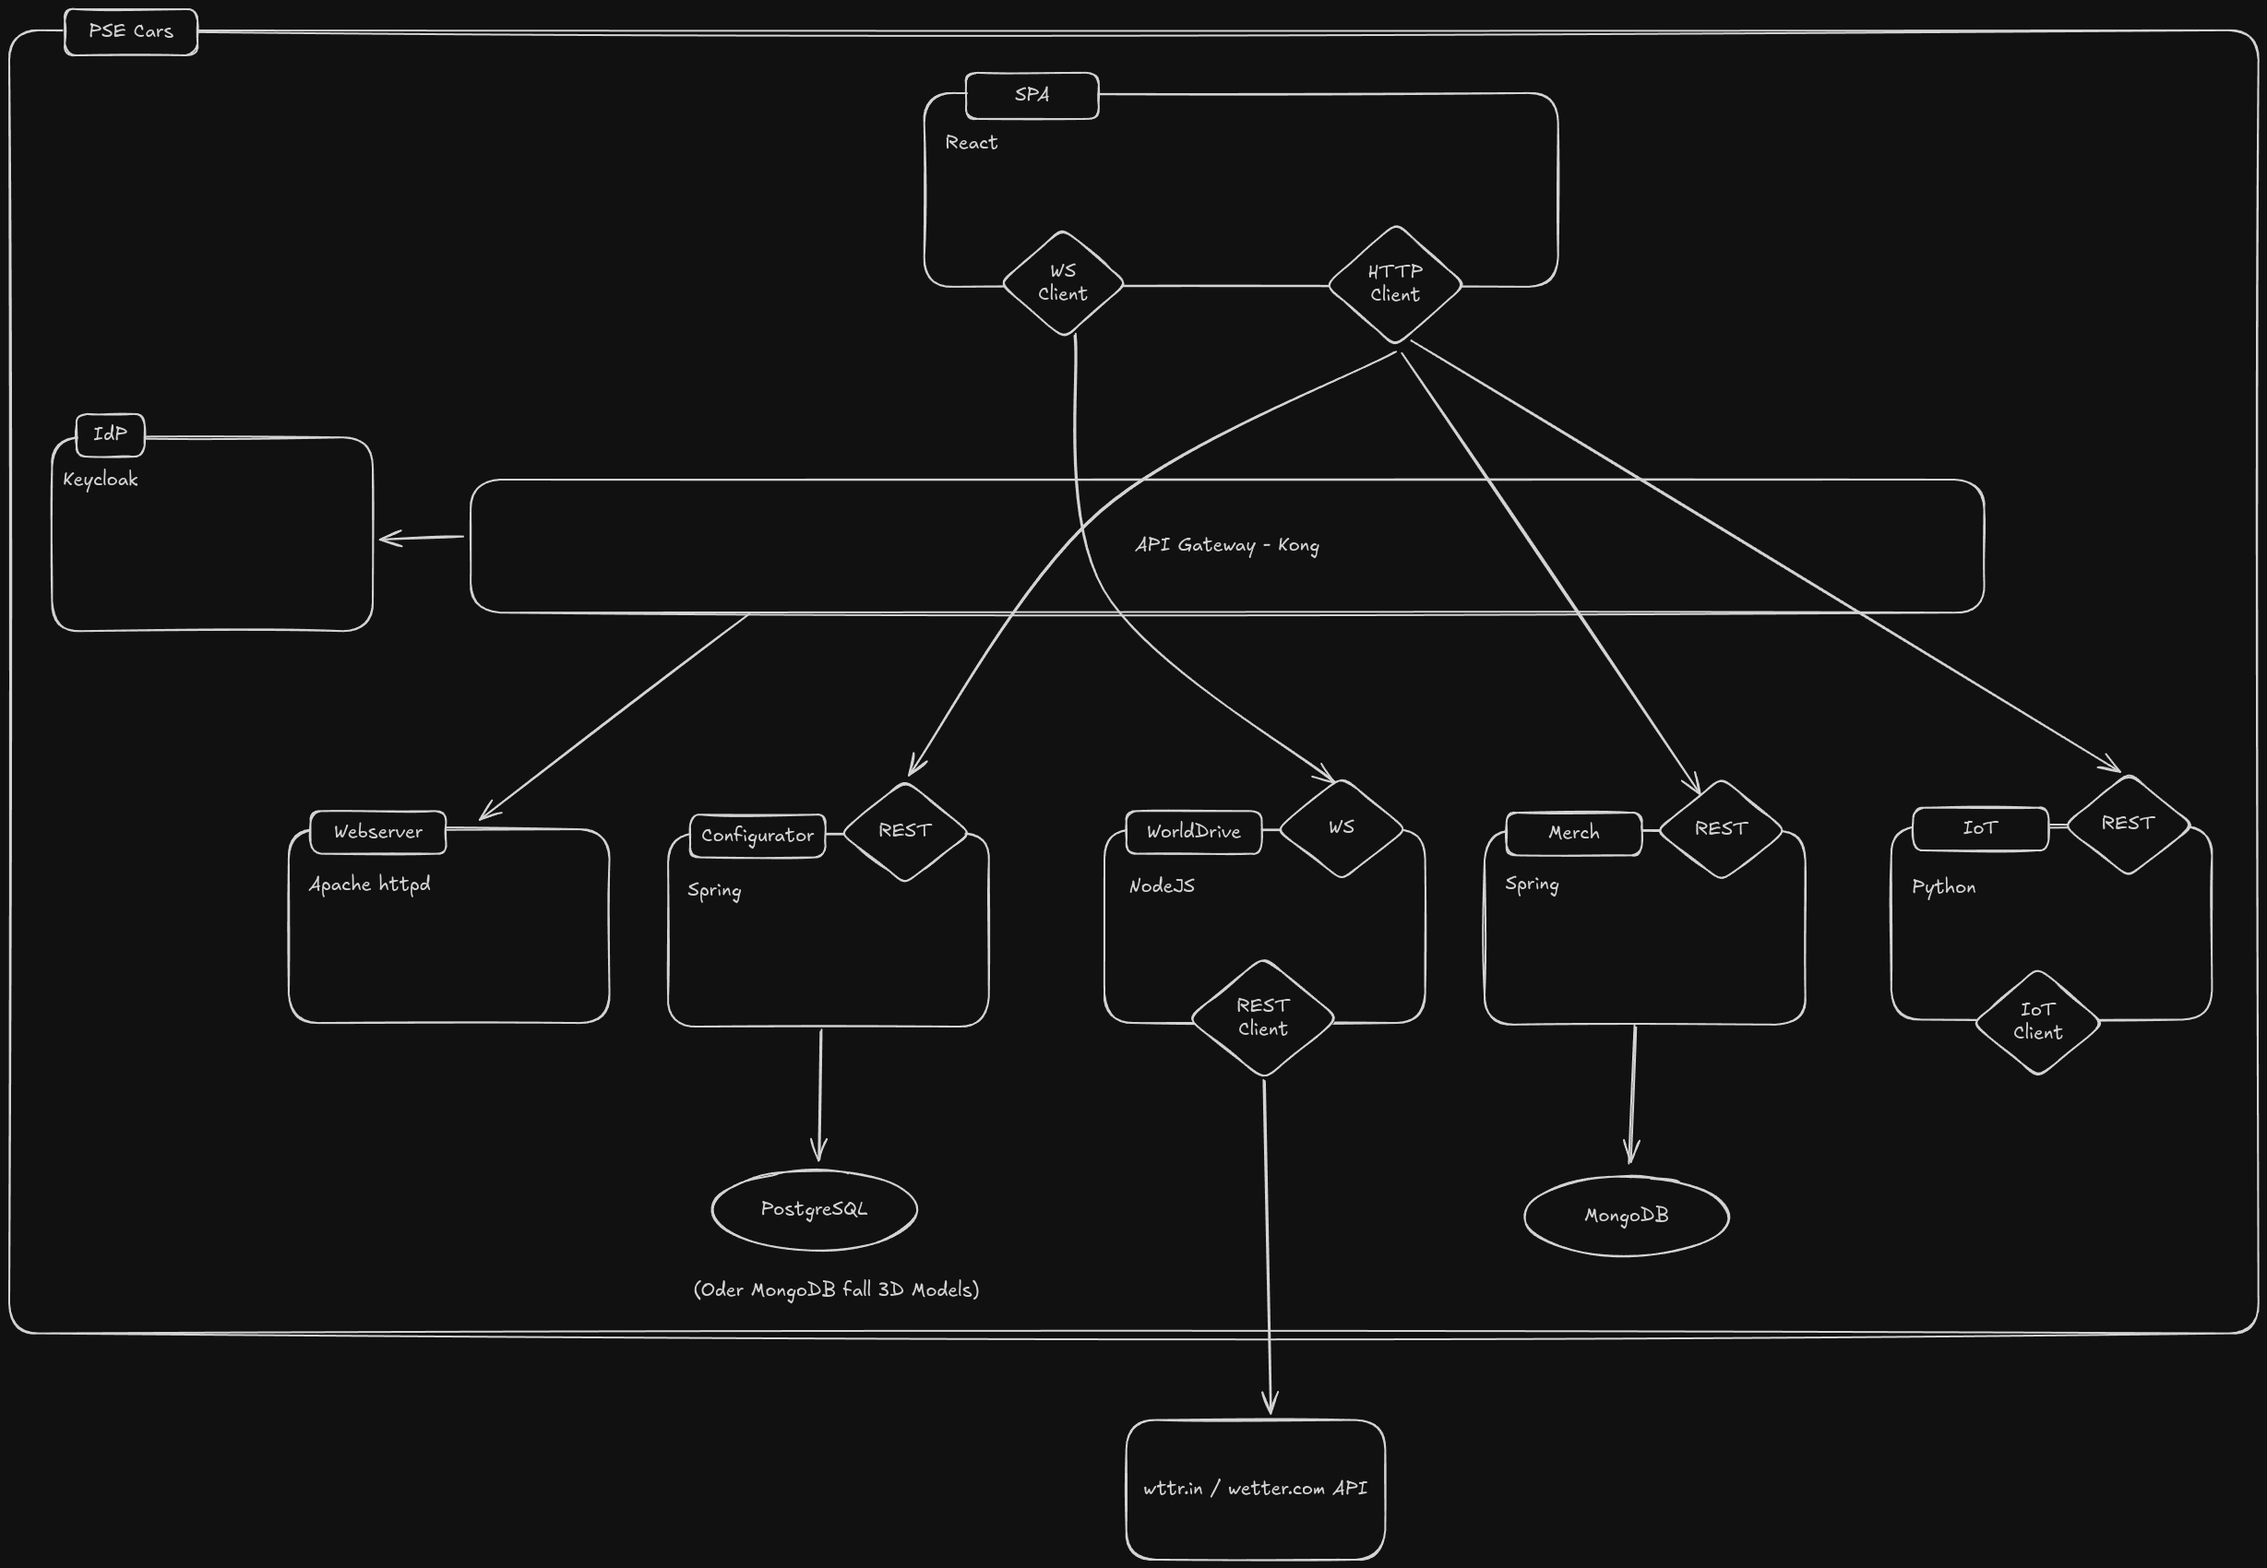
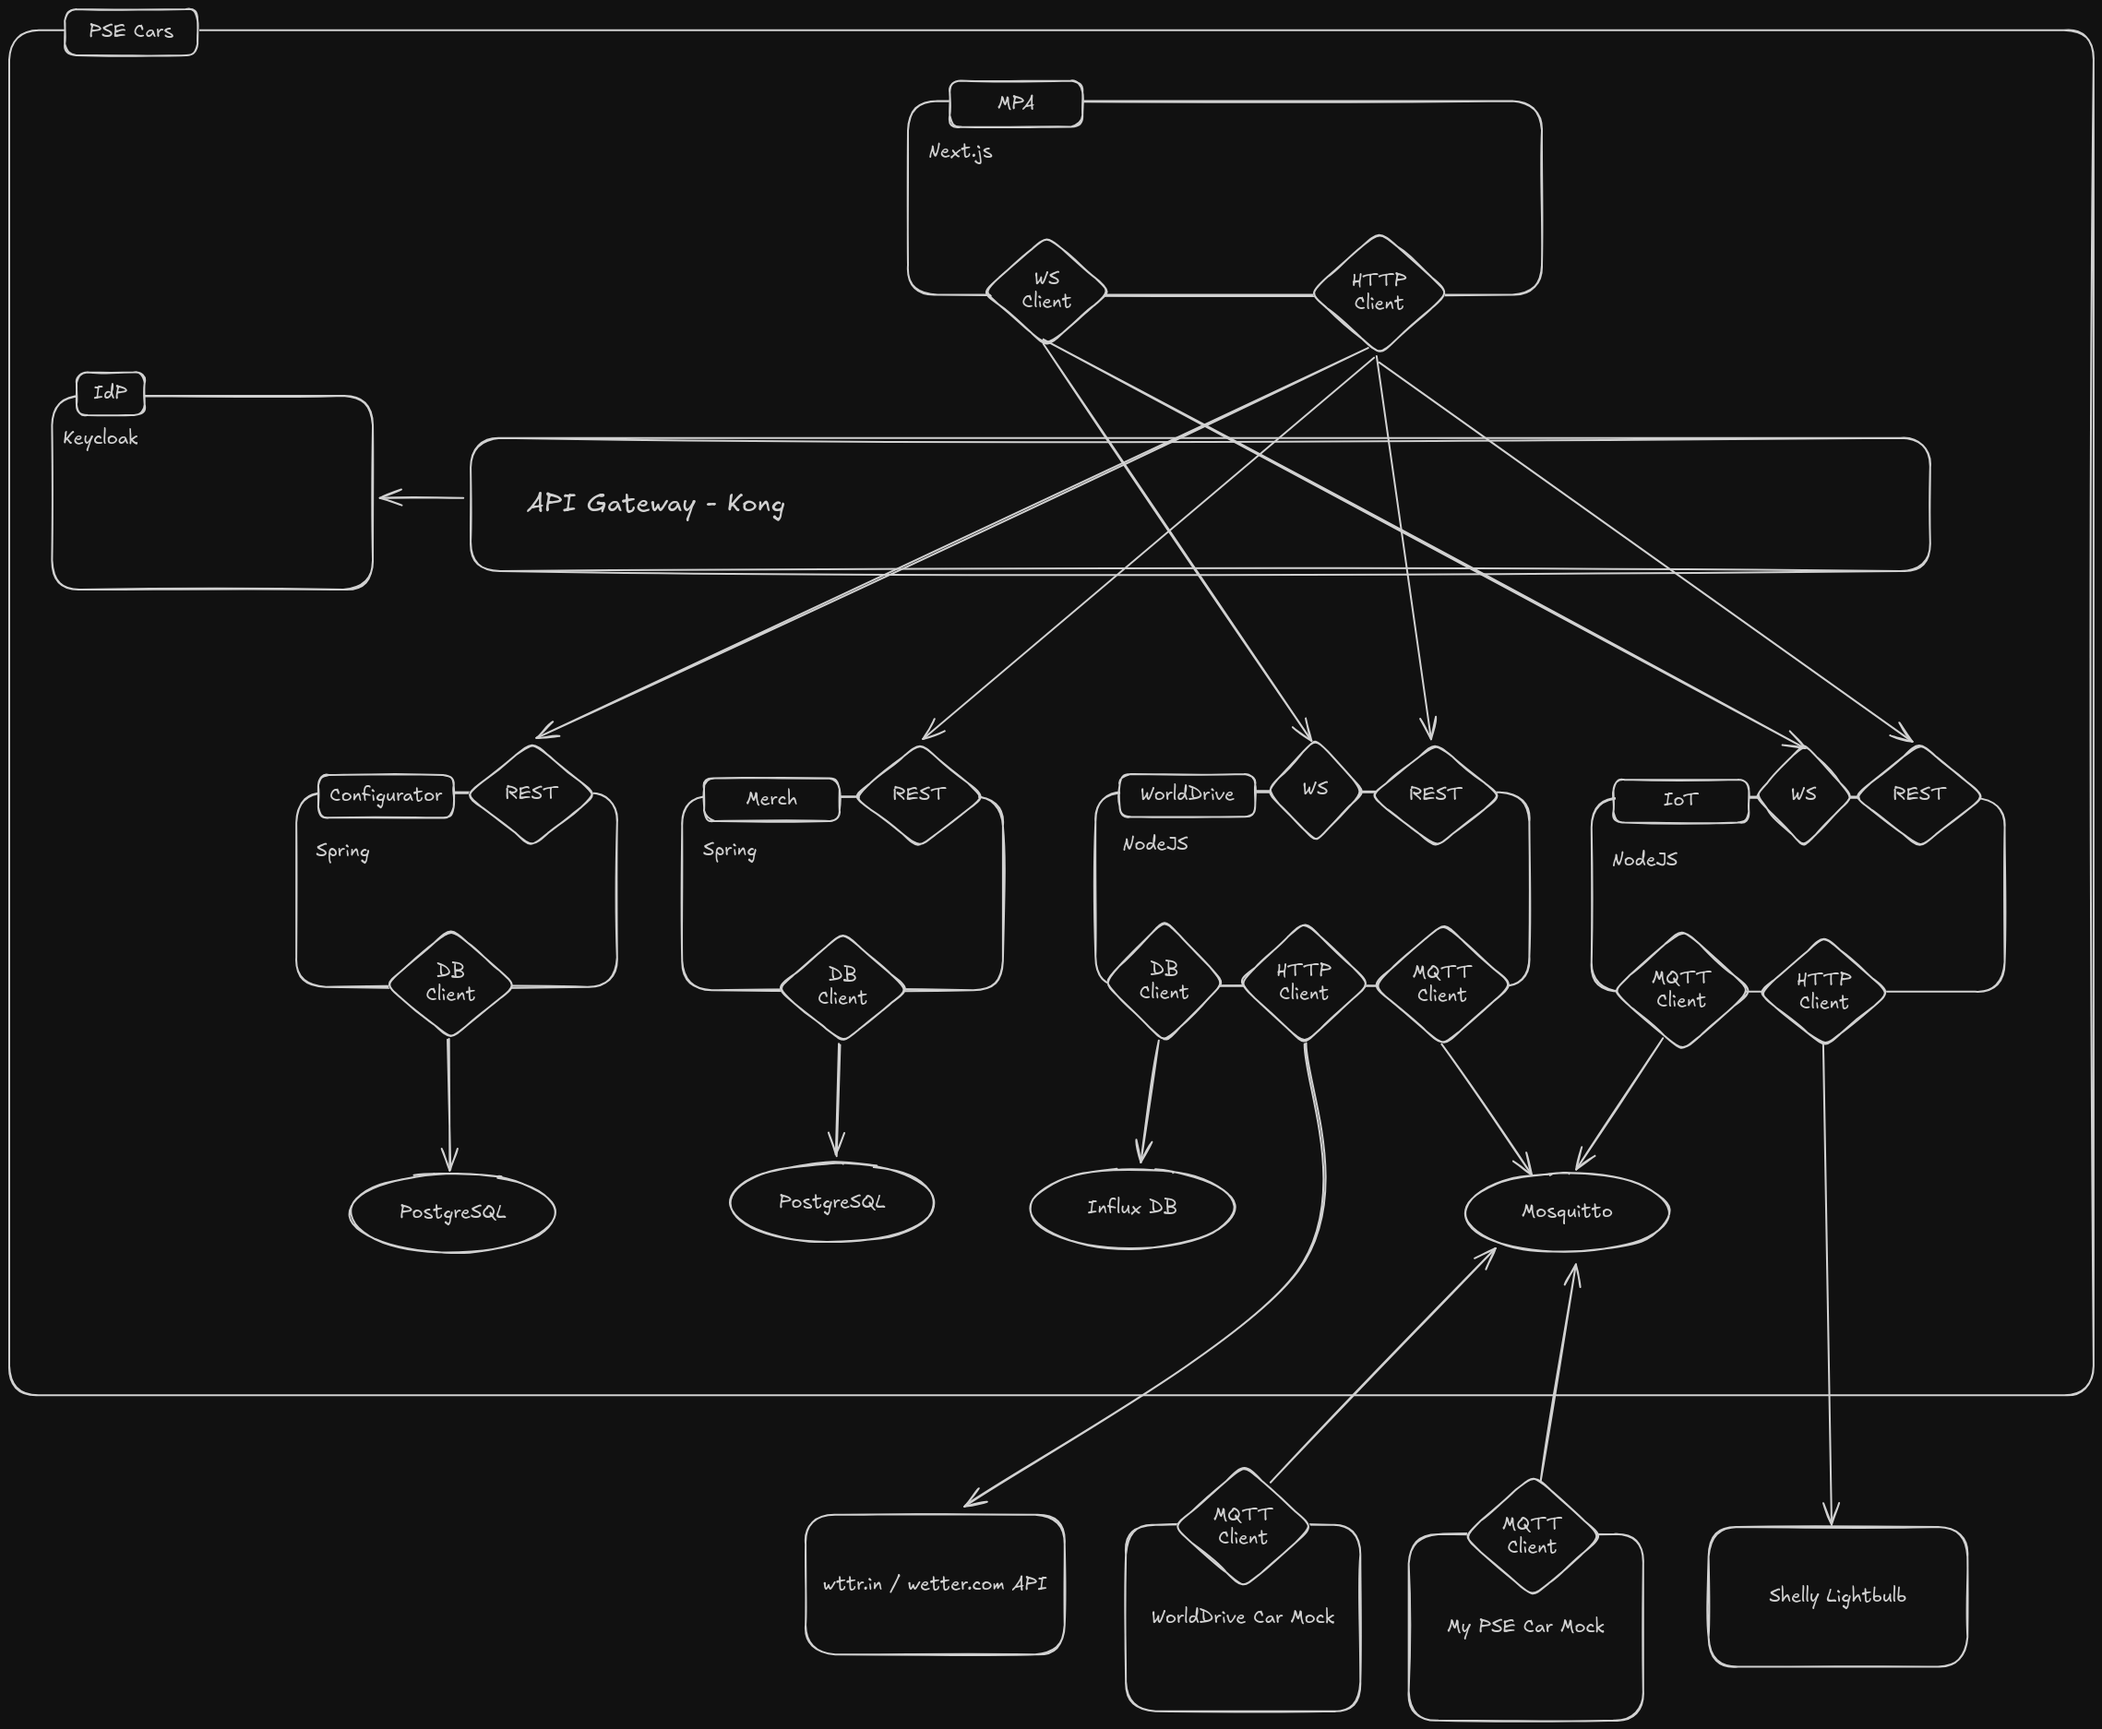
update architecture diagram

diff --git a/docs/architecture.md b/docs/architecture.md
@@ -4,16 +4,18 @@ The PSE Cars project implements a microservices architecture with a single page 
 The architecture is depicted in the following diagram:
 
 ![architecture-diagram](./assets/architecture-overview.png)
-To edit the architecture diagram, you can head to [Excalidraw](https://excalidraw.com/#json=qPRa5HvHtLyFhRTxlwJNO,ogKITKNQVfp70Fm-Bc6Fmg).
+To edit the architecture diagram, you can head to [Excalidraw](https://excalidraw.com/#json=UMViqL7yGEP9J_MtTu8xY,yi9mrHiOdnFlpbi4ghgdUw).
 
 The PSE Cars project consists of the following components:
-- Frontend - SPA using the React framework
+- Frontend - MPA using the Next.js framework
 - API Gateway (Kong) serving as a reverse proxy for the backend services and handling authentication-related tasks
 - Identity Provider (Keycloak) working together with the API Gateway
-- Webserver (Apache httpd) serving the frontend application
 - Configurator Service (implemented with Spring) providing data for the `Cars Overview` and `Car Configurator` pages
-  - PostgreSQL database to persist the configurated cars
+  - PostgreSQL database to persist the configured cars
 - WorldDrive Service (implemented in NodeJS) providing data for the `WorldDrive` page
+  - InfluxDB database to persist the past positions of the car
+  - Mosquitto MQTT broker for communication with the (mocked) car
 - Merch Service (implemented with Spring) providing data for the `Merchandise` page
-  - MongoDB database to serve the merchandise data
+  - PostgreSQL database to serve the merchandise data
 - IoT Service (implemented in Python) serving as a proxy to the Lightbulb for the `MyPSECar` page
+  - Mosquitto MQTT broker for communication with the (mocked) car
